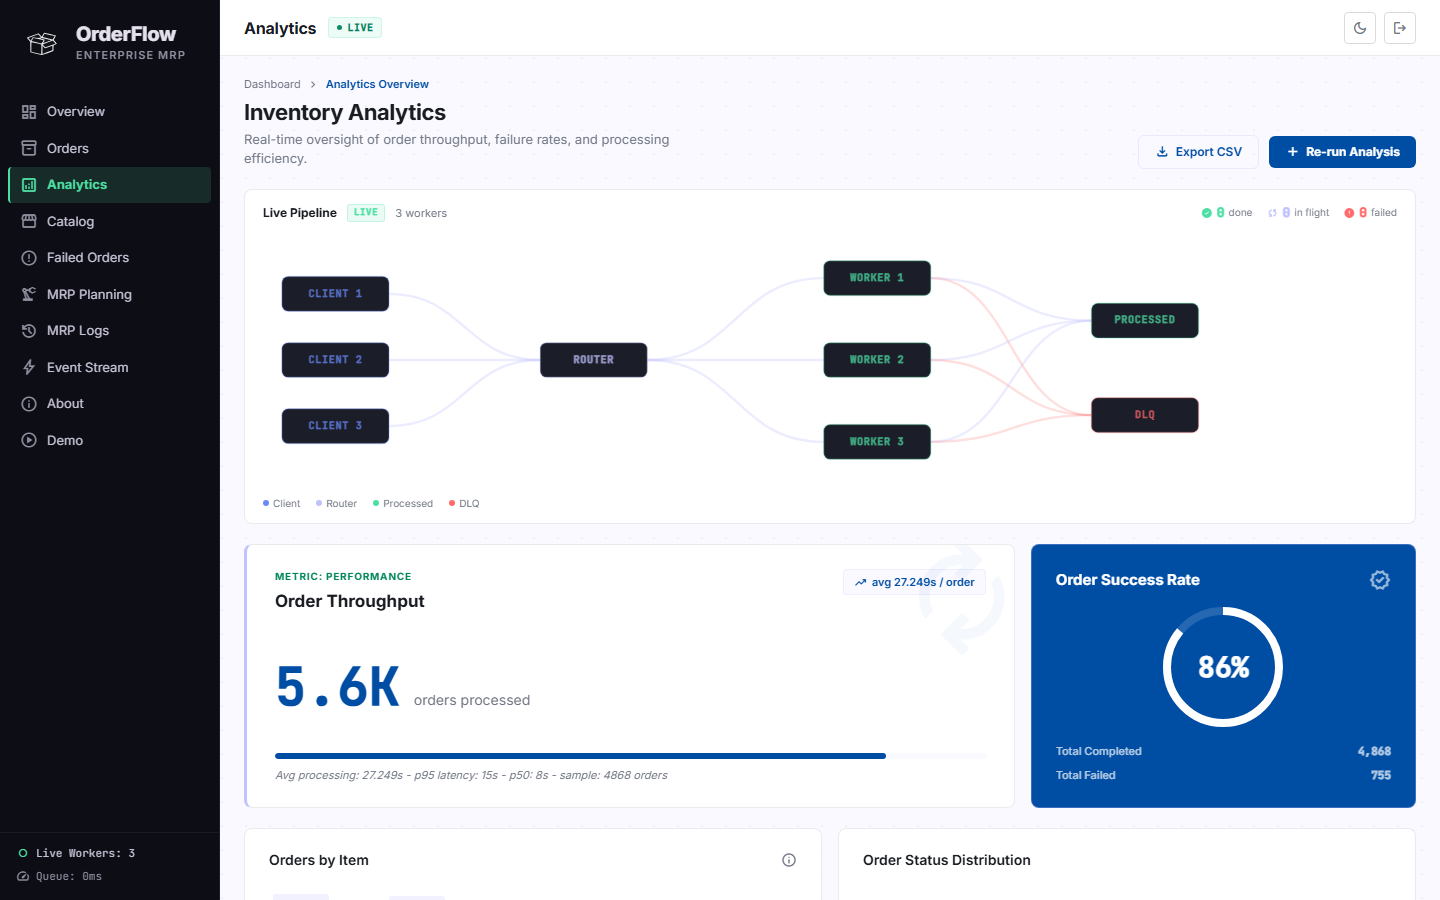
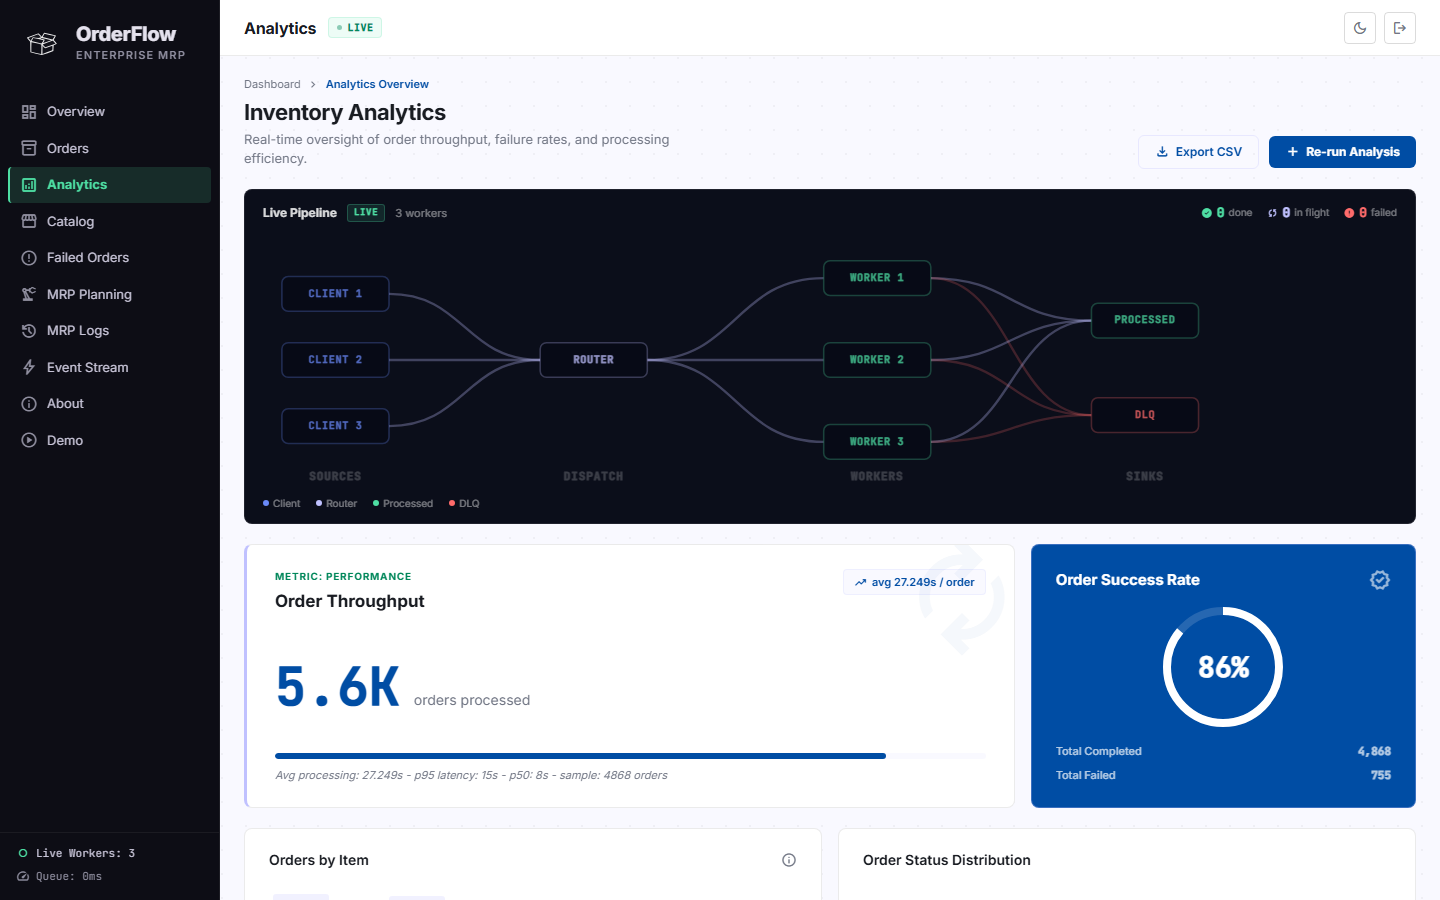
fix: pin FlowAnimation to dark background so nodes render correctly in light theme

Changed region(s): [[0.1562, 0.1867, 1.0, 0.5911]]

diff --git a/frontend/src/components/FlowAnimation.tsx b/frontend/src/components/FlowAnimation.tsx
@@ -198,22 +198,22 @@ export default function FlowAnimation({ workerCount = 3 }: { workerCount?: numbe
 
   return (
     <div style={{
-      background: 'var(--surf1)',
-      border: '1px solid var(--border)',
+      background: '#0b0e1a',
+      border: '1px solid rgba(255,255,255,0.09)',
       borderRadius: 8,
       padding: '14px 18px 12px',
     }}>
       {/* top bar */}
       <div style={{ display: 'flex', justifyContent: 'space-between', alignItems: 'center', marginBottom: 12 }}>
         <div style={{ display: 'flex', alignItems: 'center', gap: 10 }}>
-          <span style={{ fontSize: 12, fontWeight: 700, color: 'var(--on-surface)' }}>Live Pipeline</span>
+          <span style={{ fontSize: 12, fontWeight: 700, color: 'rgba(255,255,255,0.85)' }}>Live Pipeline</span>
           <span style={{
             fontSize: 9, fontWeight: 700, letterSpacing: '0.08em',
             color: '#4edea3', background: 'rgba(78,222,163,0.12)',
             border: '1px solid rgba(78,222,163,0.25)', borderRadius: 3,
             padding: '1px 6px', fontFamily: "'JetBrains Mono',monospace",
           }}>LIVE</span>
-          <span style={{ fontSize: 11, color: 'var(--outline)' }}>
+          <span style={{ fontSize: 11, color: 'rgba(255,255,255,0.45)' }}>
             {nw} workers
           </span>
         </div>
@@ -295,7 +295,7 @@ export default function FlowAnimation({ workerCount = 3 }: { workerCount?: numbe
           { c: '#4edea3', l: 'Processed' },
           { c: '#ff6b6b', l: 'DLQ'       },
         ].map(({ c, l }) => (
-          <div key={l} style={{ display: 'flex', alignItems: 'center', gap: 4, fontSize: 10, color: 'var(--outline)' }}>
+          <div key={l} style={{ display: 'flex', alignItems: 'center', gap: 4, fontSize: 10, color: 'rgba(255,255,255,0.45)' }}>
             <div style={{ width: 6, height: 6, borderRadius: '50%', background: c }} />
             {l}
           </div>
@@ -312,7 +312,7 @@ function StatPill({ icon, value, color, label }: { icon: string; value: number; 
         style={{ fontSize: 12, color, fontVariationSettings: "'FILL' 1" }}>{icon}</span>
       <span style={{ fontSize: 13, fontWeight: 700, color,
         fontFamily: "'JetBrains Mono',monospace", lineHeight: 1 }}>{value}</span>
-      <span style={{ fontSize: 10, color: 'var(--outline)' }}>{label}</span>
+      <span style={{ fontSize: 10, color: 'rgba(255,255,255,0.45)' }}>{label}</span>
     </div>
   );
 }